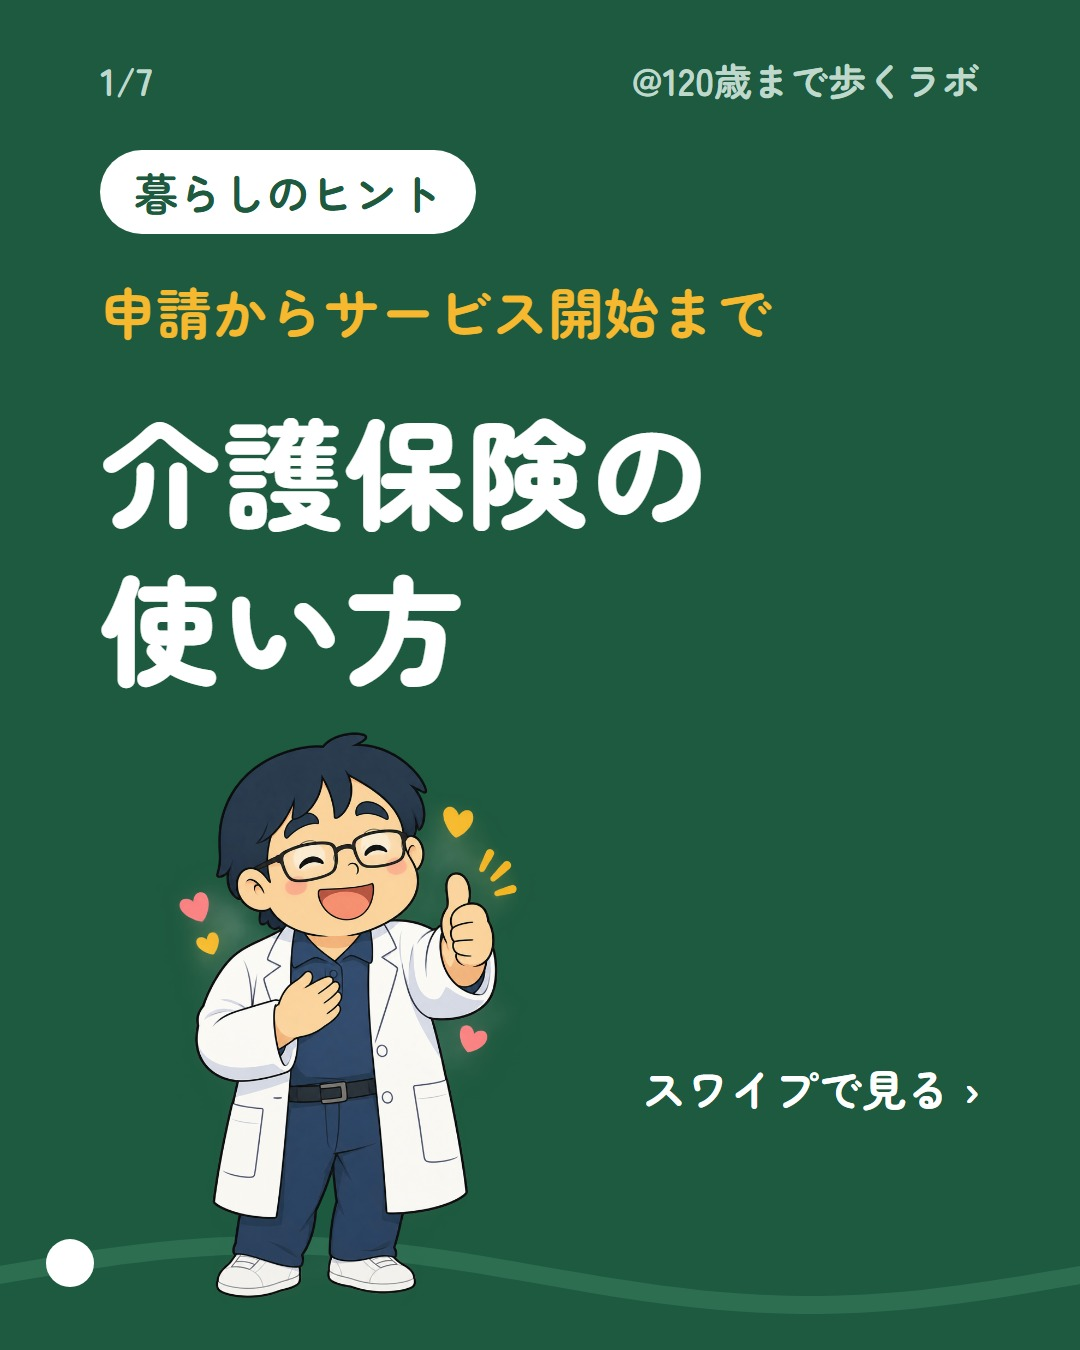
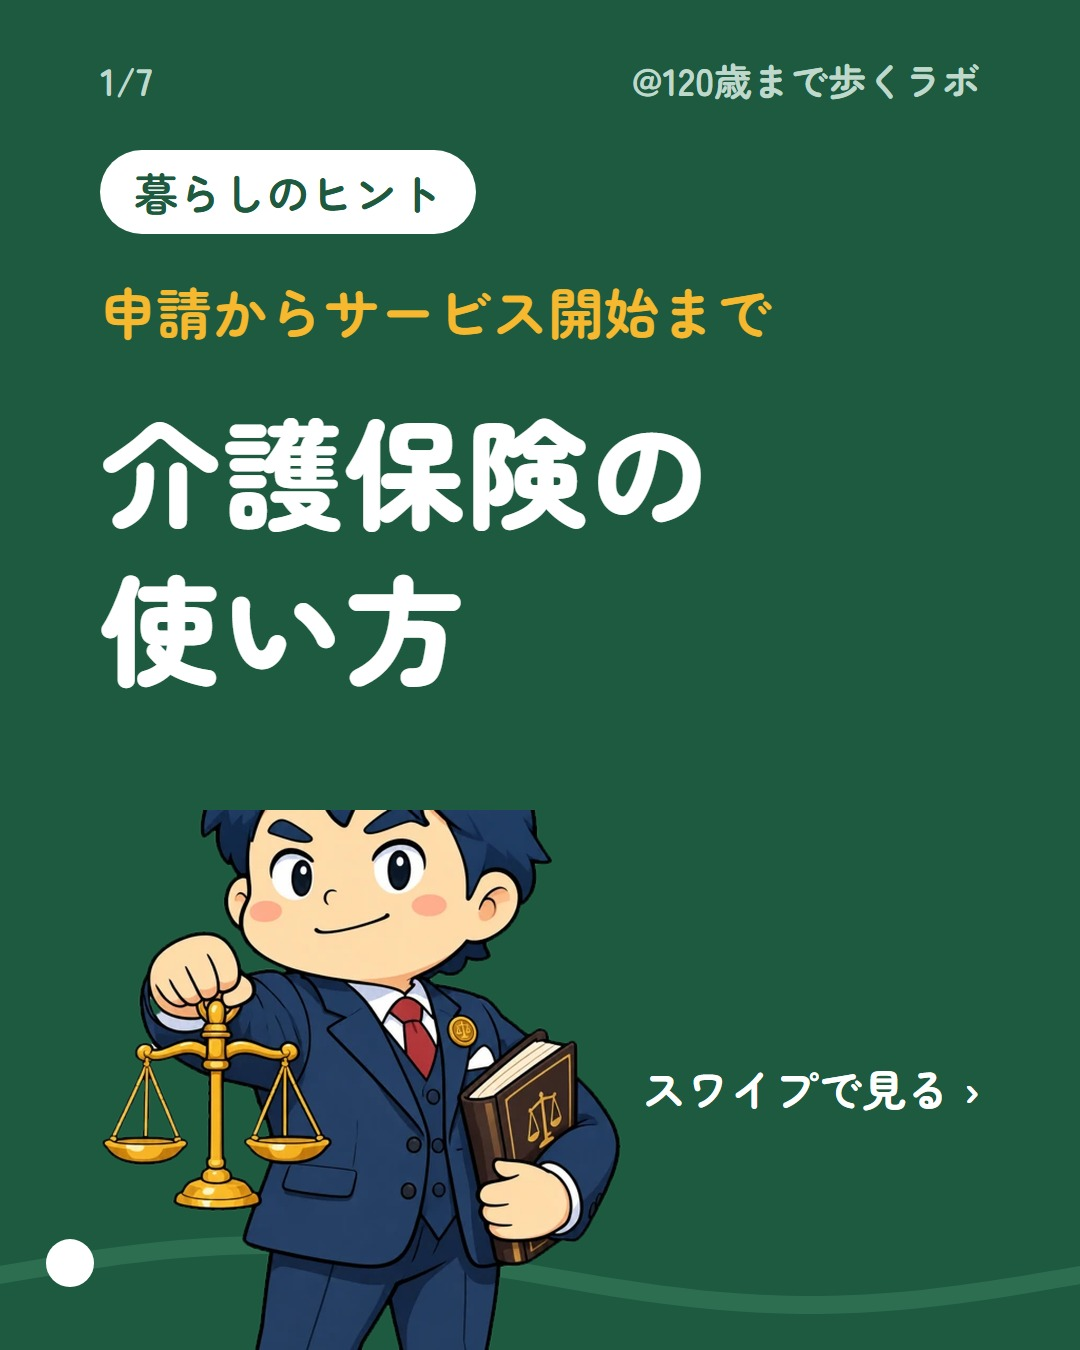
AI・制度用のかいたろ君を追加し、介護保険の投稿の表紙に使う
- assets/character-ai.png・character-system.png を追加
- CLAUDE.md に表紙イラストの使い分けを追記
- 正方形に近いキャラクター画像は下端につけて小さめに表示（スワイプの文字と重ならないように）
- 2026-10-11-kaigo-hoken の表紙を character-system.png に変更

Changed region(s): [[0.0917, 0.5289, 0.5806, 1.0]]

diff --git a/templates/carousel.html b/templates/carousel.html
@@ -43,6 +43,8 @@
   .cover.with-char { padding-top: 150px; }
   .cover.with-char h1 { font-size: 120px; }
   .cover .char { position: absolute; left: 150px; bottom: 40px; height: 600px; z-index: 2; }
+  /* 正方形に近い画像（端で切れている絵）は下の端につけて、スワイプの文字に重ならない大きさにする */
+  .cover .char.wide { left: 90px; bottom: 0; height: 540px; }
   .cover .swipe { position: absolute; right: 100px; bottom: 190px; font-size: 44px; font-weight: 700; color: var(--cover-ink); z-index: 3; }
   .cover.with-char .swipe { bottom: 230px; }
 
@@ -134,7 +136,7 @@
     cls: 'cover' + (showChar ? ' with-char' : ''),
     html: `<div class="fit">` + (tag ? `<p class="tag">${esc(tag)}</p><br>` : '') +
       `<p class="sub">${esc(POST.cover.subtitle)}</p><h1>${esc(POST.cover.title)}</h1></div>` +
-      (showChar ? `<img class="char" src="${CHAR}" alt="">` : '') +
+      (showChar ? `<img class="char" src="${CHAR}" alt="" onload="if (this.naturalWidth / this.naturalHeight > 0.85) this.classList.add('wide')">` : '') +
       `<span class="swipe">スワイプで見る ›</span>`
   });
 

diff --git a/CLAUDE.md b/CLAUDE.md
@@ -30,6 +30,9 @@
 - 表紙のキャラクターはカテゴリーに合わせて自動で入る（assets/character-exercise.png、character-knowledge.png、character-awareness.png）
 - 運動・知識・啓発以外のイレギュラー発信（栄養枠、ビタミンweek などの○○week）は、表紙（1枚目）のかいたろ君をすべて assets/character-special.png（赤ペンを持ってガッツポーズ）にする
   - category に運動・知識・啓発以外（例："栄養"）を書くと自動でこの画像になる。カテゴリーごとに新しいキャラクター画像は作らない
+- テーマで決まっているかいたろ君（朝の枠でも18時の枠でも、カテゴリーの画像より優先する。cover に "characterFile" で指定する）
+  - AI に関する投稿：assets/character-ai.png（ロボットのかいたろ君）
+  - 医療・介護保険などの制度の変更に関する投稿：assets/character-system.png（天びんと本を持つかいたろ君）
 - 決まった画像以外にしたいときは cover に "characterFile": "assets/character-special.png" のように書く（投稿フォルダからの場所でもよい）
 - キャラクターを入れたくない投稿は cover に "character": false を書く
 - 表紙のラベル（体操・からだの知識・暮らしのヒント）を変えたいときは cover に "tag": "文字" を書く。消すときは "tag": false
